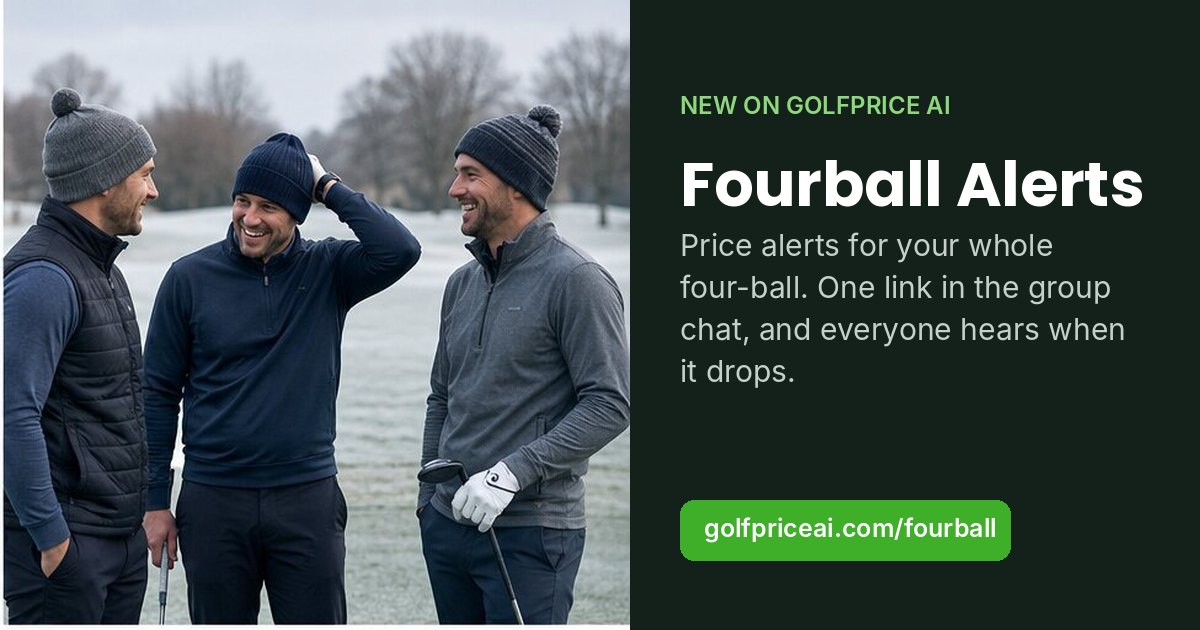
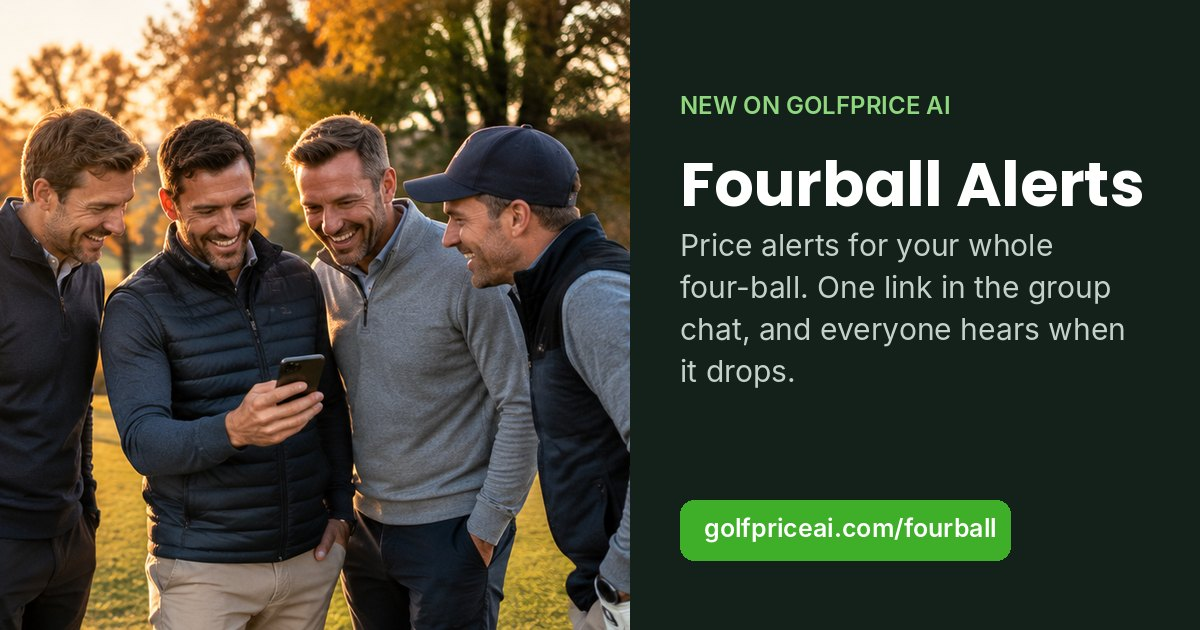
Add files via upload

diff --git a/index.html b/index.html
@@ -11,7 +11,7 @@
 <link rel="stylesheet" href="css/style.css">
 <link rel="stylesheet" href="/css/site.css">
 <link rel="stylesheet" href="/css/home.css?v=20261015b">
-<link rel="stylesheet" href="/css/fourball.css?v=20261018">
+<link rel="stylesheet" href="/css/fourball.css?v=20261018b">
 <link rel="canonical" href="https://golfpriceai.com/">
 <meta name="p:domain_verify" content="1c434797b8e84dbdde1ad6a319a38e65"/>
 <script type="application/ld+json">
@@ -287,14 +287,17 @@
         <span class="gp-tb-cta">See all deal tools <span aria-hidden="true">&rarr;</span></span>
       </span>
     </a>
-    <a class="fb-band" href="/fourball/">
-      <span class="fb-band-body">
-        <span class="fb-band-kicker">New · Only on GolfPrice AI</span>
-        <span class="fb-band-title">Your four-ball, all watching the same price.</span>
-        <span class="fb-band-line">Send one link to the group chat. Everyone gets one email when it genuinely drops. No hype. No fake discounts.</span>
-        <span class="fb-band-cta">Try Fourball Alerts <span aria-hidden="true">&rarr;</span></span>
+    <a class="gp-tb fb-tb" href="/fourball/">
+      <picture>
+        <source media="(max-width: 700px)" srcset="/assets/photos/tools/fourball-square.jpg">
+        <img src="/assets/photos/tools/fourball-banner.jpg" alt="" width="1536" height="512" loading="lazy">
+      </picture>
+      <span class="gp-tb-body">
+        <span class="gp-banner-kicker">New · Fourball Alerts</span>
+        <span class="gp-tb-title">Your four-ball, all watching the same price</span>
+        <span class="gp-tb-line">Send one link to the group chat. Everyone gets one email when it genuinely drops.</span>
+        <span class="gp-tb-cta">Try Fourball Alerts <span aria-hidden="true">&rarr;</span></span>
       </span>
-      <img src="/assets/photos/golf-suit-winter-group.jpg" alt="" width="512" height="512" loading="lazy">
     </a>
   </section>
 
@@ -356,7 +359,7 @@
     </div>
     <div class="gp-dots" id="smart-dots" aria-hidden="true"><span class="is-on"></span><span></span><span></span></div>
     <script>
-    /* Oct 2026: "Smarter ways to shop" shows 3 of the 12 deal tools,
+    /* Oct 2026: "Smarter ways to shop" shows 3 of the 13 deal tools,
        a different set on each visit (the three above are the fallback
        if scripts are off). Runs here, before js/app.js wires up the
        swipe dots, so the dots follow whatever is shown. */
@@ -373,7 +376,8 @@
         ['/fairway-index.html', '/assets/photos/tools/fairway-index-wide.jpg', '50% 45%', 'Trends', 'The Fairway Index', 'Are golf prices rising or falling? By category, every week.', 'See the index'],
         ['/prices/', '/assets/photos/tools/price-guides-wide.jpg', '60% 35%', 'Guides', 'Price Guides', 'Every model\u2019s lowest UK price, with its history.', 'Browse the guides'],
         ['/find-your-fit.html', '/assets/photos/tools/find-your-fit-wide.jpg', '62% 35%', 'Fit', 'Find Your Fit', 'Eight quick taps to the flex, loft and clubs that suit you.', 'Find my fit'],
-        ['/back-in-stock.html', '/assets/photos/tools/back-in-stock-wide.jpg', '72% 40%', 'Stock', 'Back In Stock Radar', 'What\u2019s sold out, and what sells out fast.', 'Check the radar']
+        ['/back-in-stock.html', '/assets/photos/tools/back-in-stock-wide.jpg', '72% 40%', 'Stock', 'Back In Stock Radar', 'What\u2019s sold out, and what sells out fast.', 'Check the radar'],
+        ['/fourball/', '/assets/photos/tools/fourball-wide.jpg', '60% 35%', 'Share', 'Fourball Alerts', 'Price alerts for your whole four-ball. One link in the group chat.', 'Try it']
       ];
       var track = document.getElementById('smart-track');
       if (!track) return;

diff --git a/css/fourball.css b/css/fourball.css
@@ -50,7 +50,7 @@
 .fb-hero { display: grid; grid-template-columns: minmax(0, 1.2fr) minmax(0, 1fr); gap: 32px; align-items: center; padding: 28px 0 0; }
 .fb-hero h1 { margin: 6px 0 10px; font-family: Poppins, sans-serif; font-weight: 800; font-size: clamp(32px, 5vw, 48px); line-height: 1.08; }
 .fb-lede { margin: 0; font-size: 17px; line-height: 1.55; color: var(--gp-text-2); max-width: 620px; }
-.fb-hero-photo img { display: block; width: 100%; aspect-ratio: 1 / 1; object-fit: cover; border-radius: 20px; }
+.fb-hero-photo img { display: block; width: 100%; height: auto; aspect-ratio: 3 / 2; object-fit: cover; border-radius: 20px; }
 .fb-steps { list-style: none; margin: 22px 0 0; padding: 18px; background: #fff; border: 1px solid var(--gp-line); border-radius: 16px; display: flex; flex-direction: column; gap: 14px; }
 .fb-steps li { display: flex; gap: 12px; align-items: flex-start; }
 .fb-steps li > span:last-child { display: flex; flex-direction: column; gap: 2px; font-size: 14.5px; color: var(--gp-text-2); line-height: 1.45; }
@@ -79,7 +79,6 @@
 @media (max-width: 760px) {
   .fb-hero { grid-template-columns: 1fr; gap: 20px; }
   .fb-hero-photo { order: -1; }
-  .fb-hero-photo img { aspect-ratio: 4 / 3; object-position: 50% 25%; }
   .fb-start { padding: 18px 16px; }
 }
 
@@ -109,19 +108,15 @@
 .fb-watch-form .gp-af-msg.is-ok { color: #8fd77e; }
 .fb-watch-form .gp-af-msg.is-error { color: #ffb4a8; }
 
-/* ---------------------------------------------------------------- homepage band + confirmed page */
-.fb-band { display: grid; grid-template-columns: minmax(0, 1fr) 260px; align-items: stretch; background: #14211a; color: #fff; border-radius: 20px; overflow: hidden; margin-top: 28px; text-decoration: none; }
-.fb-band-body { padding: 24px 26px; display: flex; flex-direction: column; gap: 8px; align-items: flex-start; }
-.fb-band-kicker { font-size: 12px; font-weight: 700; letter-spacing: .06em; text-transform: uppercase; color: #8fd77e; }
-.fb-band-title { font: 800 clamp(21px, 2.6vw, 28px)/1.2 Poppins, sans-serif; color: #fff; }
-.fb-band-line { font-size: 15px; line-height: 1.5; color: #c4d0c8; max-width: 560px; }
-.fb-band-cta { margin-top: 6px; background: var(--gp-green); color: #fff; font-weight: 700; border-radius: 10px; padding: 11px 18px; }
-.fb-band:hover .fb-band-cta { background: var(--gp-green-dark); }
-.fb-band img { width: 100%; height: 100%; object-fit: cover; object-position: 50% 30%; display: block; }
+/* ---------------------------------------------------------------- homepage banner (uses .gp-tb from home.css) + confirmed page */
+.fb-tb { margin-top: 20px; }
+.fb-tb img { object-position: 75% 40%; }
+/* Phones: square photo, faces at the top, words over the bottom half. */
 @media (max-width: 700px) {
-  .fb-band { grid-template-columns: 1fr; }
-  .fb-band img { order: -1; height: 180px; }
-  .fb-band-body { padding: 18px 16px; }
+  .fb-tb { aspect-ratio: 1 / 1; }
+  .fb-tb img { object-position: 50% 0; }
+  .fb-tb::after { background: linear-gradient(180deg, rgba(22, 36, 28, 0) 30%, rgba(22, 36, 28, 0.78) 55%, rgba(22, 36, 28, 0.95) 100%); }
+  .fb-tb .gp-tb-body { top: auto; bottom: 20px; transform: none; width: auto; right: 20px; left: 20px; }
 }
 #fb-confirm { margin: 22px 0 0; text-align: left; }
 #fb-confirm .fb-product { font-weight: 700; }

diff --git a/fourball/index.html b/fourball/index.html
@@ -19,7 +19,7 @@
 <meta property="og:url" content="https://golfpriceai.com/fourball/">
 <meta property="og:image" content="https://golfpriceai.com/assets/cards/fourball.jpg">
 <meta name="twitter:card" content="summary_large_image">
-<link rel="stylesheet" href="/css/fourball.css?v=20261018">
+<link rel="stylesheet" href="/css/fourball.css?v=20261018b">
 <meta property="og:image:width" content="1200">
 <meta property="og:image:height" content="630">
 <script type="application/ld+json">{"@context":"https://schema.org","@type":"WebApplication","name":"Fourball Alerts","url":"https://golfpriceai.com/fourball/","applicationCategory":"ShoppingApplication","operatingSystem":"Any","offers":{"@type":"Offer","price":"0","priceCurrency":"GBP"},"description":"Shared UK golf price alerts for a four-ball or golf society: send one link, everyone gets an email when the price drops."}</script>
@@ -138,7 +138,7 @@
     <p class="fb-lede">Price alerts for your whole four-ball. One link in the group chat, and everyone hears when the kit you’re all eyeing genuinely drops.</p>
     <ol class="fb-steps"><li><span class="fb-step-n">1</span><span><b>Pick it</b><span>Search a driver, ball, trolley or anything else we track, or tap the heart on a few to make a shortlist.</span></span></li><li><span class="fb-step-n">2</span><span><b>Send it</b><span>Tap “Send to my four-ball”. It opens WhatsApp (or your share menu) with the link and photo ready to go.</span></span></li><li><span class="fb-step-n">3</span><span><b>Everyone’s watching</b><span>Each mate adds their own email. When the price genuinely drops, everyone gets one email.</span></span></li></ol>
   </div>
-  <div class="fb-hero-photo"><img src="/assets/photos/golf-suit-winter-group.jpg" alt="Three golfers laughing together on a frosty course" width="512" height="512"></div>
+  <div class="fb-hero-photo"><img src="/assets/photos/tools/fourball-wide.jpg" alt="Four golfers laughing at a phone on an autumn course at sunset" width="1200" height="800"></div>
 </section>
 <section class="fb-start" aria-labelledby="fb-start-h">
   <h2 id="fb-start-h">Start a four-ball alert</h2>

diff --git a/fourball/list/index.html b/fourball/list/index.html
@@ -20,7 +20,7 @@
 <meta property="og:url" content="https://golfpriceai.com/fourball/list/">
 <meta property="og:image" content="https://golfpriceai.com/assets/cards/fourball.jpg">
 <meta name="twitter:card" content="summary_large_image">
-<link rel="stylesheet" href="/css/fourball.css?v=20261018">
+<link rel="stylesheet" href="/css/fourball.css?v=20261018b">
 <meta property="og:image:width" content="1200">
 <meta property="og:image:height" content="630">
 <script type="application/ld+json">{"@context":"https://schema.org","@type":"BreadcrumbList","itemListElement":[{"@type":"ListItem","position":1,"name":"Home","item":"https://golfpriceai.com/"},{"@type":"ListItem","position":2,"name":"Fourball Alerts","item":"https://golfpriceai.com/fourball/"},{"@type":"ListItem","position":3,"name":"Shortlist"}]}</script>

diff --git a/alerts-confirmed.html b/alerts-confirmed.html
@@ -9,7 +9,7 @@
 <link href="https://fonts.googleapis.com/css2?family=Poppins:wght@600;700;800&family=Inter:wght@400;500;600;700&display=swap" rel="stylesheet">
 <link rel="stylesheet" href="/css/style.css">
 <link rel="stylesheet" href="/css/site.css">
-<link rel="stylesheet" href="/css/fourball.css?v=20261018">
+<link rel="stylesheet" href="/css/fourball.css?v=20261018b">
 <style>
   .al-page { max-width: 600px; margin: 0 auto; padding: 72px 16px 90px; text-align: center; }
   .al-icon { width: 64px; height: 64px; border-radius: 50%; display: grid; place-items: center; margin: 0 auto 18px; background: var(--gp-pale); color: var(--gp-green-dark); }

diff --git a/deal-tools.html b/deal-tools.html
@@ -136,7 +136,7 @@
 
   <div class="dt-grid" id="tools">
     <a class="dt-tile" href="/fourball/">
-      <img src="/assets/photos/golf-suit-winter-group.jpg" alt="" loading="eager" style="object-position: 50% 30%">
+      <img src="/assets/photos/tools/fourball.jpg" alt="" loading="eager" style="object-position: 50% 30%">
       <span class="dt-tile-body">
         <span class="dt-kicker">New · Share</span>
         <span class="dt-title">Fourball Alerts</span>

diff --git a/scripts/price_pages.py b/scripts/price_pages.py
@@ -440,7 +440,7 @@ def chart_svg(model, phone=False):
 
 # ---------------------------------------------------------------- shared page parts
 ICON_SHARE = '<svg width="16" height="16" viewBox="0 0 24 24" fill="none" stroke="currentColor" stroke-width="2.2" stroke-linecap="round" stroke-linejoin="round" aria-hidden="true"><circle cx="18" cy="5" r="3"></circle><circle cx="6" cy="12" r="3"></circle><circle cx="18" cy="19" r="3"></circle><path d="M8.6 13.5l6.8 4M15.4 6.5l-6.8 4"></path></svg>'
-FOURBALL_CSS = '<link rel="stylesheet" href="/css/fourball.css?v=20261018">\n'
+FOURBALL_CSS = '<link rel="stylesheet" href="/css/fourball.css?v=20261018b">\n'
 ICON_HEART = '<svg width="16" height="16" viewBox="0 0 24 24" fill="none" stroke="currentColor" stroke-width="2.2" stroke-linecap="round" stroke-linejoin="round" aria-hidden="true"><path d="M12 20s-7-4.4-7-10a4 4 0 017-2.6A4 4 0 0119 10c0 5.6-7 10-7 10z"></path></svg>'
 ICON_GROUP = '<svg width="34" height="34" viewBox="0 0 24 24" fill="none" stroke="#2f8a1f" stroke-width="1.8" stroke-linecap="round" stroke-linejoin="round" aria-hidden="true"><circle cx="8" cy="8" r="3"></circle><circle cx="16" cy="8" r="3"></circle><path d="M2 20c0-3.3 2.7-6 6-6s6 2.7 6 6M12 14.5c1-.3 2-.5 4-.5 3.3 0 6 2.7 6 6"></path></svg>'
 ICON_BELL = '<svg width="16" height="16" viewBox="0 0 24 24" fill="none" stroke="currentColor" stroke-width="2.2" stroke-linecap="round" stroke-linejoin="round" aria-hidden="true"><path d="M6 8a6 6 0 0112 0c0 7 3 9 3 9H3s3-2 3-9"></path><path d="M10.3 21a1.94 1.94 0 003.4 0"></path></svg>'

diff --git a/scripts/fourball_pages.py b/scripts/fourball_pages.py
@@ -16,7 +16,7 @@ from price_pages import (FOURBALL_CSS, ICON_GROUP, PRICES_DIR, SITE, _write, bre
 import site_chrome
 
 ROOT = PRICES_DIR.parent
-PHOTO = "/assets/photos/golf-suit-winter-group.jpg"
+PHOTO = "/assets/photos/tools/fourball-wide.jpg"
 CARD = "/assets/cards/fourball.jpg"
 
 FAQ = [
@@ -63,7 +63,7 @@ def tool_page():
     <p class="fb-lede">Price alerts for your whole four-ball. One link in the group chat, and everyone hears when the kit you’re all eyeing genuinely drops.</p>
     <ol class="fb-steps">{steps_html}</ol>
   </div>
-  <div class="fb-hero-photo"><img src="{PHOTO}" alt="Three golfers laughing together on a frosty course" width="512" height="512"></div>
+  <div class="fb-hero-photo"><img src="{PHOTO}" alt="Four golfers laughing at a phone on an autumn course at sunset" width="1200" height="800"></div>
 </section>
 <section class="fb-start" aria-labelledby="fb-start-h">
   <h2 id="fb-start-h">Start a four-ball alert</h2>
